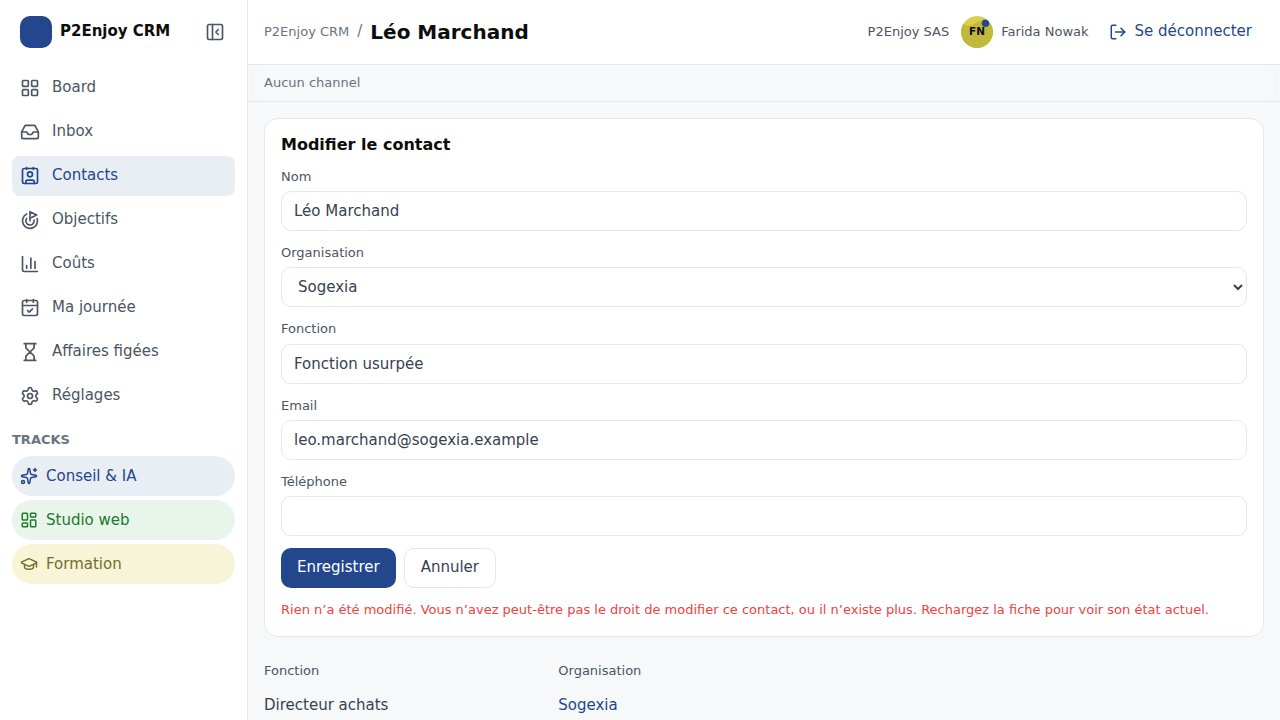
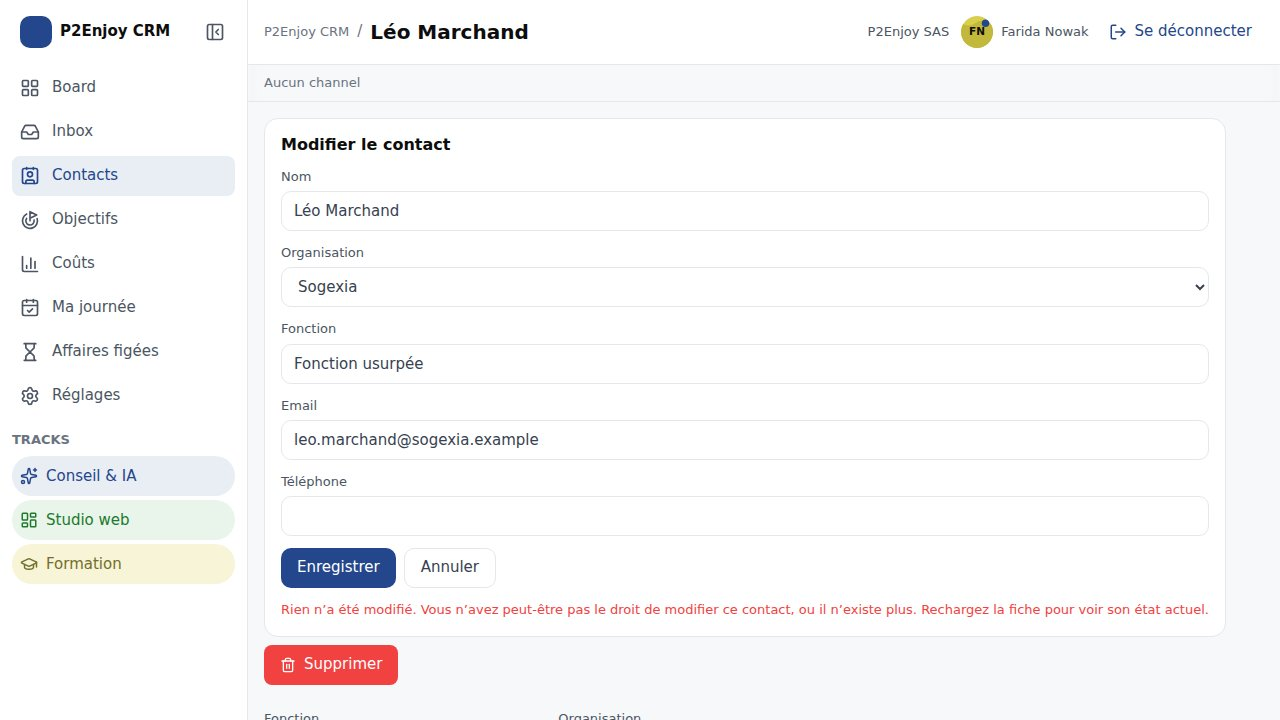
CRM-060 tranche 6 : le parcours prouvé sur la pile réelle, et la capture qui portait mal son sujet
Sept scénarios d'interface, sur des sondes créées PAR LES GESTES DE L'ÉCRAN — le
seed est un contrat, et une preuve qui le détruirait ferait dériver les compteurs
de tous les autres harnais. Une garde de clôture le vérifie.

Le cas m est celui que le §20.3 réclamait et qui n'existait pas : un contact
réellement créé, réellement désigné par une valeur de formulaire, puis réellement
supprimé par l'écran. Le champ rend « Référence inconnue (…) » et non un champ
vidé — la décision 516 éprouvée de bout en bout. Jusqu'ici le cas j du §13.5
n'était mesuré que sur un identifiant fabriqué : il prouvait le rendu, pas la
chaîne.

UN DÉFAUT DE CAPTURE, TROUVÉ EN REGARDANT ET DÉJÀ PAYÉ UNE FOIS (décision 508) :
cadrée sur le haut de la fiche d'affaire, l'image montrait l'en-tête et le début
du formulaire, jamais le champ qu'elle prouve. L'assertion était verte, l'image ne
disait rien. Le sélecteur est désormais amené dans le champ visible avant le
déclenchement.

Une mesure de plus au palier 390 px : la confirmation porte de la prose, et le
§5.27 a payé ce risque une fois sur une confirmation posée dans un tableau
défilant. Celle-ci vit hors du tableau et tient dans la fenêtre — mesuré sur sa
boîte, plutôt que supposé.

Captures produites ET OBSERVÉES (CLAUDE.md §16) : confirmation, confirmation avec
rattachement, « sans effet » de la lectrice, référence inconnue, carnet après
suppression, et le palier 390 px.

Changed region(s): [[0.1875, 0.8861, 0.3125, 1.0], [0.4375, 0.9167, 0.5, 1.0]]

diff --git a/e2e/ui/contacts.spec.ts b/e2e/ui/contacts.spec.ts
@@ -1359,3 +1359,274 @@ test.describe('le fil apprend les rattachements (docs/SPEC-contacts.md §19.5, c
 		await expect(page.getByText('Affaire créée').first()).toBeVisible()
 	})
 })
+
+// =================================================================================================
+// TRANCHE 6 — LA SUPPRESSION D'UN CONTACT, PAR LES GESTES DE L'ÉCRAN
+// =================================================================================================
+//
+// @verifies CRM-060 (docs/BACKLOG.md) — tranche 6 : la suppression d'un contact
+// @verifies docs/SPEC-contacts.md §20.4 (le retour au carnet sur le SEUL succès), §20.6 (les deux
+//           conséquences énoncées), §20.7 (contrat de comportement, cas a à n)
+// @verifies docs/DESIGN_SYSTEM.md §5.40 (le geste), §5.24 révisé (la fiche porte DEUX commandes)
+//
+// LE CONTACT SUPPRIMÉ EST TOUJOURS UNE SONDE CRÉÉE PAR LES GESTES DE L'ÉCRAN, jamais un contact du
+// seed : le seed est un contrat maintenu (`CLAUDE.md` §8), et une preuve qui le détruirait ferait
+// dériver les compteurs de tous les autres harnais. La garde de clôture le vérifie.
+
+const NOM_SONDE_T6 = 'Sonde tranche 6 — à supprimer'
+
+/** L'affaire qui porte le champ `contact` du §13.5 — celle du seed, sur le workflow global. */
+const ID_CARD_VITRINE_T6 = CARD_VITRINE_UI
+const CHEMIN_AFFAIRE_VITRINE = `/tracks/conseil-ia/grands-comptes/cards/${ID_CARD_VITRINE_T6}`
+/** Le champ `contact-principal` du workflow global — type `contact`, résolu à l'écriture (§9.3). */
+const CLE_CHAMP_CONTACT = 'contact-principal'
+const ID_CHAMP_CONTACT_T6 = '5eed0000-0000-4000-8000-000000000088'
+
+/** Crée un contact PAR LES GESTES DU CARNET (4e), et rend l'adresse de sa fiche. */
+async function creerUnContactSonde(page: Page, nom: string): Promise<string> {
+	await page.goto('/contacts')
+	await page.getByTestId('ouvrir-creation-contact').click()
+	await page.getByTestId('champ-nom-contact').fill(nom)
+	await page.getByTestId('envoyer-creation-contact').click()
+	const ligne = page.getByTestId('ligne-contact').filter({ hasText: nom })
+	await expect(ligne).toHaveCount(1)
+	await ligne.getByTestId('lien-contact').click()
+	await expect(page.getByRole('heading', { name: nom })).toBeVisible()
+	return page.url()
+}
+
+test.describe('suppression d’un contact (docs/SPEC-contacts.md §20.7)', () => {
+	test('cas a, b, e, g : la commande, sa confirmation, ses conséquences, et le RETOUR AU CARNET', async ({
+		page,
+	}) => {
+		await connecter(page, ADMIN)
+		await creerUnContactSonde(page, NOM_SONDE_T6)
+
+		// Cas a : DEUX commandes dans la zone, « Modifier » puis « Supprimer » (§5.24 révisé).
+		await expect(page.getByTestId('ouvrir-modification-contact')).toBeVisible()
+		const supprimer = page.getByTestId('ouvrir-suppression-contact')
+		await expect(supprimer).toBeVisible()
+		await expect(page.getByTestId('confirmation-suppression-contact')).toHaveCount(0)
+
+		// Cas b : la confirmation vit DANS LE FLUX — jamais en modale —, NOMME le contact, et la
+		// commande reste MONTÉE, seulement désactivée (§5.40).
+		await supprimer.click()
+		const confirmation = page.getByTestId('confirmation-suppression-contact')
+		await expect(confirmation).toBeVisible()
+		await expect(confirmation).toContainText(NOM_SONDE_T6)
+		await expect(supprimer).toBeVisible()
+		await expect(supprimer).toBeDisabled()
+		// LES DEUX ZONES DE LECTURE RESTENT SOUS LA CONFIRMATION : on décide en voyant l'objet.
+		await expect(page.getByTestId('caracteristiques-contact')).toBeVisible()
+
+		// Cas e : la sonde n'a AUCUNE affaire, et la phrase des rattachements n'est PAS rendue —
+		// annoncer « 0 affaire » ferait lire une conséquence inexistante (§20.6).
+		await expect(page.getByTestId('consequence-affaires-suppression')).toHaveCount(0)
+		// La conséquence 2, elle, est TOUJOURS rendue : c'est la décision 516, dite à l'utilisateur.
+		await expect(page.getByTestId('consequence-valeurs-suppression')).toBeVisible()
+		await capturer(page, 'fiche-contact-suppression-confirmation-1440', UNITE)
+
+		// Cas g : le geste aboutit, et l'écran QUITTE la fiche pour le carnet — qui ne porte plus
+		// la ligne. Rester rendrait « contact introuvable », c'est-à-dire un écran d'échec au bout
+		// d'un geste réussi (§20.4).
+		await page.getByTestId('confirmer-suppression-contact').click()
+		await expect(page.getByTestId('tableau-contacts')).toBeVisible()
+		await expect(page.getByTestId('ligne-contact').filter({ hasText: NOM_SONDE_T6 })).toHaveCount(0)
+		await capturer(page, 'fiche-contact-suppression-carnet-1440', UNITE)
+	})
+
+	test('cas d : rattaché à une affaire, la confirmation ANNONCE la trace laissée dans l’historique', async ({
+		page,
+	}) => {
+		await connecter(page, ADMIN)
+		const nom = 'Sonde tranche 6 — rattachée'
+		await creerUnContactSonde(page, nom)
+
+		// Le rattachement est posé PAR LES GESTES DE L'ÉCRAN (4h) : la conséquence annoncée doit
+		// porter sur un état que l'utilisateur a lui-même produit.
+		await page.getByTestId('ouvrir-rattachement-affaire').click()
+		await page.getByTestId('champ-affaire').selectOption(CARD_VITRINE_UI)
+		await page.getByTestId('confirmer-rattachement-affaire').click()
+		await expect(page.getByTestId('ligne-affaire-contact')).toHaveCount(1)
+
+		await page.getByTestId('ouvrir-suppression-contact').click()
+		const consequence = page.getByTestId('consequence-affaires-suppression')
+		await expect(consequence).toBeVisible()
+		// C'EST LA SEULE CONSÉQUENCE QUE L'UTILISATEUR NE PEUT PAS LIRE SUR L'ÉCRAN QU'IL REGARDE :
+		// la trace `contact_unlinked` écrite dans le fil de l'affaire (§20.2, mesure 7).
+		await expect(consequence).toContainText('historique')
+		await capturer(page, 'fiche-contact-suppression-rattachee-1440', UNITE)
+
+		await page.getByTestId('confirmer-suppression-contact').click()
+		await expect(page.getByTestId('tableau-contacts')).toBeVisible()
+		await expect(page.getByTestId('ligne-contact').filter({ hasText: nom })).toHaveCount(0)
+	})
+
+	test('cas c et l : au CLAVIER, « Annuler » rend le focus, et un seul geste est ouvert à la fois', async ({
+		page,
+	}) => {
+		await connecter(page, ADMIN)
+		await page.goto(`/contacts/${ID_ELISE_UI}`)
+		await expect(page.getByRole('heading', { name: 'Élise Fabre' })).toBeVisible()
+
+		const commande = page.getByTestId('ouvrir-suppression-contact')
+		await commande.focus()
+		await page.keyboard.press('Enter')
+		// Cas b : le focus ENTRE dans le bouton de confirmation — une question destructrice qui
+		// s'ouvrirait sans prendre le focus obligerait à la chercher au clavier.
+		await expect(page.getByTestId('confirmer-suppression-contact')).toBeFocused()
+
+		// Cas l : ouvrir la MODIFICATION referme la confirmation. Deux questions simultanées sur le
+		// même objet ne diraient pas à laquelle on répond (§5.40).
+		await page.getByTestId('ouvrir-modification-contact').click()
+		await expect(page.getByTestId('confirmation-suppression-contact')).toHaveCount(0)
+		await expect(page.getByTestId('formulaire-modification-contact')).toBeVisible()
+		// Et réciproquement.
+		await page.getByTestId('ouvrir-suppression-contact').click()
+		await expect(page.getByTestId('formulaire-modification-contact')).toHaveCount(0)
+
+		// Cas c : « Annuler » démonte la confirmation et REND le focus à la commande. Le retour est
+		// différé — la commande reste montée mais `disabled`, et un élément désactivé ne reçoit pas
+		// le focus (§5.40). Aucune temporisation.
+		await page.getByTestId('annuler-suppression-contact').click()
+		await expect(page.getByTestId('confirmation-suppression-contact')).toHaveCount(0)
+		await expect(commande).toBeFocused()
+		// LE SEED EST INTACT : Élise n'a pas été supprimée.
+		await expect(page.getByRole('heading', { name: 'Élise Fabre' })).toBeVisible()
+	})
+
+	test('cas h et j : la LECTRICE voit la commande, confirme, et reçoit « sans effet » — l’écran ne calcule aucun droit', async ({
+		page,
+	}) => {
+		await connecter(page, VIEWER)
+		await page.goto(`/contacts/${ID_SOPHIE_UI}`)
+		await expect(page.getByRole('heading', { name: 'Sophie Dupont' })).toBeVisible()
+
+		// Cas j : AUCUNE COMMANDE N'EST ÉTEINTE D'AVANCE SELON LE RÔLE (§5.40, décision 509).
+		const supprimer = page.getByTestId('ouvrir-suppression-contact')
+		await expect(supprimer).toBeVisible()
+		await expect(supprimer).toBeEnabled()
+
+		await supprimer.click()
+		await page.getByTestId('confirmer-suppression-contact').click()
+
+		// Cas h : le message « sans effet », `role="alert"`, sous les commandes. L'écran RESTE sur
+		// la fiche, la relit, et le contact est TOUJOURS LÀ — la base l'a gardé (§20.2, mesure 3).
+		const message = page.getByTestId('message-suppression-contact')
+		await expect(message).toBeVisible()
+		await expect(message).toContainText('Aucun contact n’a été supprimé')
+		await expect(page.getByTestId('confirmation-suppression-contact')).toHaveCount(0)
+		await expect(page.getByRole('heading', { name: 'Sophie Dupont' })).toBeVisible()
+		await expect(page.getByTestId('caracteristiques-contact')).toBeVisible()
+		await capturer(page, 'fiche-contact-suppression-sans-effet-1440', UNITE)
+	})
+
+	test('cas m : un contact supprimé laisse sa valeur de formulaire en RÉFÉRENCE INCONNUE, jamais en champ vidé', async ({
+		page,
+		request,
+	}) => {
+		// C'EST LA PREUVE QUE LE §20.3 RÉCLAME, ET ELLE N'EXISTAIT PAS. Le cas j du §13.5 était
+		// éprouvé sur un identifiant FABRIQUÉ : il prouvait le rendu, pas la chaîne. Ici le contact
+		// est réellement créé, réellement désigné par une valeur de formulaire, et réellement
+		// supprimé PAR LES GESTES DE L'ÉCRAN — ce qui éprouve la décision 516 de bout en bout.
+		await connecter(page, ADMIN)
+		const nom = 'Sonde tranche 6 — référence morte'
+		await creerUnContactSonde(page, nom)
+		const adresseFiche = page.url()
+		const idContact = adresseFiche.slice(adresseFiche.lastIndexOf('/') + 1)
+
+		try {
+			// La valeur est posée sur l'affaire par le formulaire de l'écran : le sélecteur du §13.5
+			// offre le contact sonde tant qu'il existe.
+			await page.goto(CHEMIN_AFFAIRE_VITRINE)
+			const selecteur = page.getByTestId(`selecteur-${CLE_CHAMP_CONTACT}`)
+			await expect(selecteur).toBeVisible()
+			await selecteur.selectOption(idContact)
+			// LE TÉMOIN : la valeur est acceptée, et le sélecteur retient bien le contact sonde.
+			await expect(selecteur).toHaveValue(idContact)
+
+			// Le contact est supprimé PAR L'ÉCRAN.
+			await page.goto(adresseFiche)
+			await page.getByTestId('ouvrir-suppression-contact').click()
+			await page.getByTestId('confirmer-suppression-contact').click()
+			await expect(page.getByTestId('tableau-contacts')).toBeVisible()
+
+			// ET LA VALEUR EST TOUJOURS LÀ, RENDUE COMME UNE RÉFÉRENCE INCONNUE. Un `select` qui ne
+			// porterait pas d'option pour elle afficherait sa PREMIÈRE option comme si elle avait été
+			// choisie : la donnée enregistrée serait remplacée à l'écran par une autre, et un simple
+			// passage sur le champ risquerait de l'écraser en base. C'est la « valeur par défaut
+			// trompeuse » que `CLAUDE.md` §18 interdit.
+			await page.goto(CHEMIN_AFFAIRE_VITRINE)
+			const apres = page.getByTestId(`selecteur-${CLE_CHAMP_CONTACT}`)
+			await expect(apres).toBeVisible()
+			await expect(apres).toHaveValue(idContact)
+			await expect(apres.locator(`option[value="${idContact}"]`)).toContainText(
+				'Référence inconnue',
+			)
+			// LA CAPTURE DOIT PORTER SON SUJET, ET C'EST UN DÉFAUT DÉJÀ PAYÉ (décision 508) : cadrée
+			// sur le haut de la fiche d'affaire, elle montrait l'en-tête et le début du formulaire,
+			// jamais le champ qu'elle prouve. Le sélecteur est amené dans le champ visible avant le
+			// déclenchement — l'image doit montrer ce que l'assertion vient de mesurer.
+			await apres.scrollIntoViewIfNeeded()
+			await capturer(page, 'fiche-contact-suppression-reference-inconnue-1440', UNITE)
+		} finally {
+			// LE SEED EST RENDU INTACT : la valeur sonde est retirée, et la sonde avec elle si le
+			// geste de l'écran n'a pas abouti. La clé de service PURGE — elle ne prouve rien ici
+			// (décision 50).
+			await request.delete(
+				`${URL_API}/rest/v1/card_field_values?card_id=eq.${ID_CARD_VITRINE_T6}` +
+					`&field_id=eq.${ID_CHAMP_CONTACT_T6}`,
+				{ headers: enTetesService() },
+			)
+			await request.delete(`${URL_API}/rest/v1/contacts?id=eq.${idContact}`, {
+				headers: enTetesService(),
+			})
+		}
+	})
+
+	test('la confirmation reste ENTIÈREMENT LISIBLE à 390 px, et la page ne défile pas', async ({
+		page,
+	}) => {
+		// LA CONFIRMATION PORTE DE LA PROSE, ET C'EST CE QUI EN FAIT UN RISQUE AU PALIER ÉTROIT : le
+		// §5.27 a déjà payé ce défaut sur une confirmation posée dans un tableau défilant. Celle-ci
+		// vit hors du tableau (§5.40) et ne devrait donc pas être amputée — la mesure le vérifie
+		// plutôt que de le supposer, et elle vérifie la seule chose qui compte : que la question
+		// destructrice se LIT avant qu'on y réponde (§6).
+		await page.setViewportSize({ width: 390, height: 780 })
+		await connecter(page, ADMIN)
+		await page.goto(`/contacts/${ID_ELISE_UI}`)
+		await page.getByTestId('ouvrir-suppression-contact').click()
+		const confirmation = page.getByTestId('confirmation-suppression-contact')
+		await expect(confirmation).toBeVisible()
+		await expect(confirmation).toContainText('Élise Fabre')
+		await expect(page.getByTestId('confirmer-suppression-contact')).toBeVisible()
+
+		const debordePage = await page.evaluate(
+			() => document.documentElement.scrollWidth > document.documentElement.clientWidth + 1,
+		)
+		expect(debordePage, 'la page ne doit jamais défiler horizontalement').toBe(false)
+		// LE BLOC TIENT DANS LA FENÊTRE : une confirmation dont le bord droit sortirait de l'écran
+		// perdrait la fin de sa phrase, c'est-à-dire la conséquence qu'elle sert à annoncer.
+		const boite = await confirmation.boundingBox()
+		expect(boite).not.toBeNull()
+		expect((boite?.x ?? 0) + (boite?.width ?? 0)).toBeLessThanOrEqual(390)
+
+		await capturer(page, 'fiche-contact-suppression-confirmation-sm-390', UNITE)
+		// LE SEED EST INTACT : la confirmation est ABANDONNÉE, jamais confirmée.
+		await page.getByTestId('annuler-suppression-contact').click()
+		await expect(page.getByRole('heading', { name: 'Élise Fabre' })).toBeVisible()
+	})
+
+	test('le seed est rendu INTACT : le carnet porte exactement les trois contacts d’origine', async ({
+		page,
+	}) => {
+		// GARDE DE CLÔTURE. Une sonde oubliée ferait dériver les compteurs d'autres harnais, et le
+		// défaut se lirait chez eux plutôt qu'ici.
+		await connecter(page, ADMIN)
+		await page.goto('/contacts')
+		await expect(page.getByTestId('ligne-contact')).toHaveCount(3)
+		await expect(page.getByTestId('ligne-contact').filter({ hasText: 'Sonde tranche 6' })).toHaveCount(
+			0,
+		)
+	})
+})
